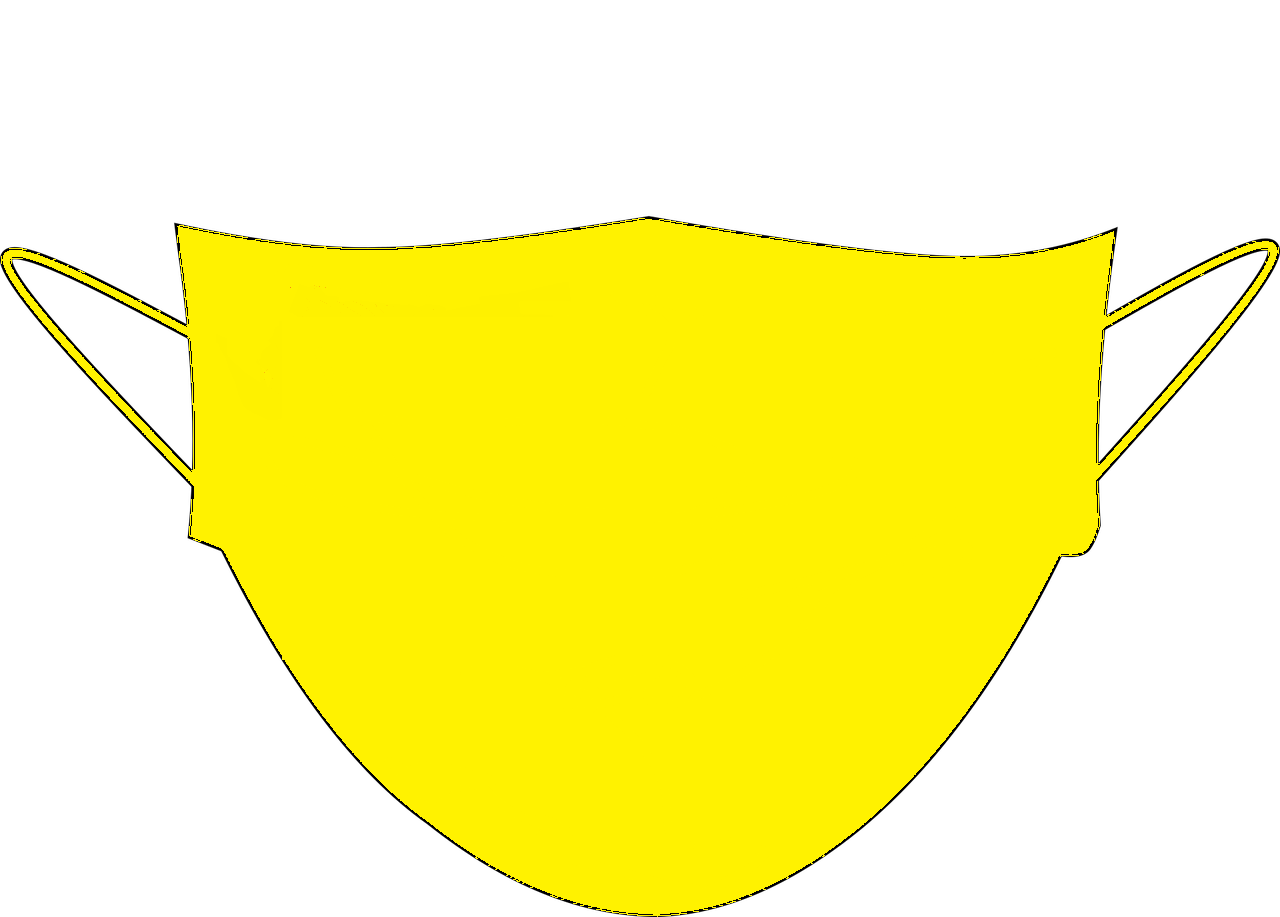
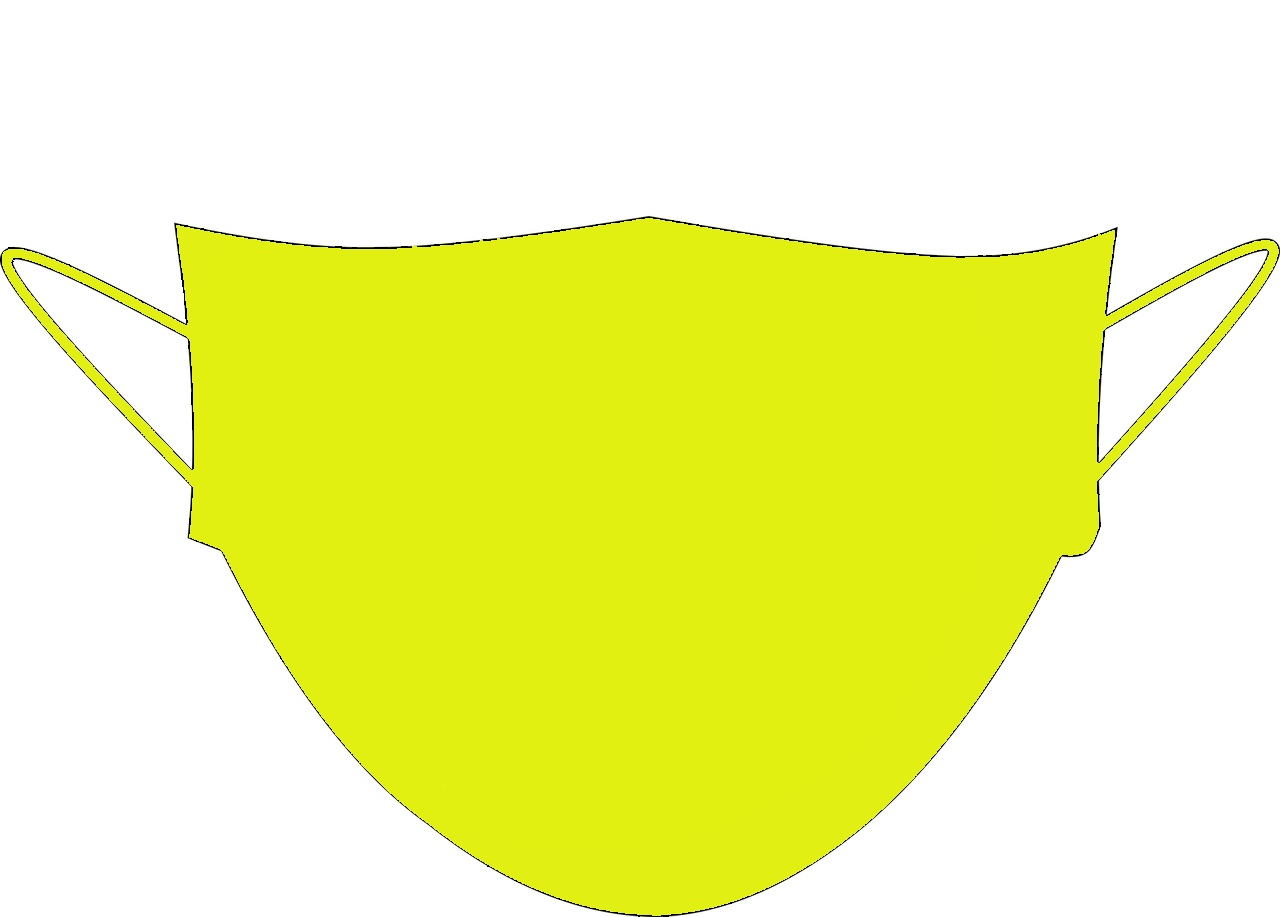
couleurs masques

diff --git a/front/src/screens/ScreenMask.js b/front/src/screens/ScreenMask.js
@@ -218,9 +218,19 @@ function ScreenMasks(props) {
                             <Row>
                                 <Col span={8}>
                                     <Checkbox
-                                        value="Bleu"
+                                        value="Blanc"
                                         style={{
                                          lineHeight: '32px',
+                                        }}
+                                    >
+                                        Blanc
+                                    </Checkbox>
+                                </Col>
+                                <Col span={8}>
+                                    <Checkbox
+                                        value="Bleu"
+                                        style={{
+                                            lineHeight: '32px',
                                         }}
                                     >
                                         Bleu
@@ -228,32 +238,32 @@ function ScreenMasks(props) {
                                 </Col>
                                 <Col span={8}>
                                     <Checkbox
-                                        value="Noir"
+                                        value="Bleu-Ciel"
                                         style={{
                                             lineHeight: '32px',
                                         }}
                                     >
-                                        Noir
+                                        Bleu Ciel
                                     </Checkbox>
                                 </Col>
                                 <Col span={8}>
                                     <Checkbox
-                                        value="Rouge"
+                                        value="Gris"
                                         style={{
                                             lineHeight: '32px',
                                         }}
                                     >
-                                        Rouge
+                                        Gris
                                     </Checkbox>
                                 </Col>
                                 <Col span={8}>
                                     <Checkbox
-                                        value="Vert"
+                                        value="Gris-Fonce"
                                         style={{
                                             lineHeight: '32px',
                                         }}
                                     >
-                                        Vert
+                                        Gris Foncé
                                     </Checkbox>
                                 </Col>
                                 <Col span={8}>
@@ -268,22 +278,22 @@ function ScreenMasks(props) {
                                 </Col>
                                 <Col span={8}>
                                     <Checkbox
-                                        value="Blanc"
+                                        value="Jaune-Clair"
                                         style={{
                                             lineHeight: '32px',
                                         }}
                                     >
-                                        Blanc
+                                        Jaune Clair
                                     </Checkbox>
                                 </Col>
                                 <Col span={8}>
                                     <Checkbox
-                                        value="Gris"
+                                        value="Noir"
                                         style={{
                                             lineHeight: '32px',
                                         }}
                                     >
-                                        Gris
+                                        Noir
                                     </Checkbox>
                                 </Col>
                                 <Col span={8}>
@@ -308,12 +318,72 @@ function ScreenMasks(props) {
                                 </Col>
                                 <Col span={8}>
                                     <Checkbox
+                                        value="Rose-Clair"
+                                        style={{
+                                            lineHeight: '32px',
+                                        }}
+                                    >
+                                        Rose Clair
+                                    </Checkbox>
+                                </Col>
+                                <Col span={8}>
+                                    <Checkbox
+                                        value="Rouge"
+                                        style={{
+                                            lineHeight: '32px',
+                                        }}
+                                    >
+                                        Rouge
+                                    </Checkbox>
+                                </Col>
+                                <Col span={8}>
+                                    <Checkbox
+                                        value="Rouge-Fonce"
+                                        style={{
+                                            lineHeight: '32px',
+                                        }}
+                                    >
+                                        Rouge Foncé
+                                    </Checkbox>
+                                </Col>
+                                <Col span={8}>
+                                    <Checkbox
+                                        value="Saumon"
+                                        style={{
+                                            lineHeight: '32px',
+                                        }}
+                                    >
+                                       Saumon
+                                    </Checkbox>
+                                </Col>
+                                <Col span={8}>
+                                    <Checkbox
+                                        value="Vert"
+                                        style={{
+                                            lineHeight: '32px',
+                                        }}
+                                    >
+                                       Vert
+                                    </Checkbox>
+                                </Col>
+                                <Col span={8}>
+                                    <Checkbox
+                                        value="Vert-Fonce"
+                                        style={{
+                                            lineHeight: '32px',
+                                        }}
+                                    >
+                                       Vert Foncé
+                                    </Checkbox>
+                                </Col>
+                                <Col span={8}>
+                                    <Checkbox
                                         value="Violet"
                                         style={{
                                             lineHeight: '32px',
                                         }}
                                     >
-                                        Violet
+                                       Violet
                                     </Checkbox>
                                 </Col>
                             </Row>

diff --git a/front/src/screens/ScreenQuiSommeNous.js b/front/src/screens/ScreenQuiSommeNous.js
@@ -30,13 +30,13 @@ function ScreenAPropos() {
                 <img style={{width: '80%', height: 'auto'}} src='../assets/images/nous1.jpg' alt='eco-responsable'/>
             </Col>
             <Col md={{span: 12}} sm={{span: 24}}>
-                <p style={{marginLeft: 20}}>En ce début 2020, l'histoire de Masques.org est directement liée au contexte de crise sanitaire et économique que traverse le monde. C'est pourquoi nous avons mis en place une plateforme liant Achat Responsable et Fabrication en privilégiant le 'local et les circuits courts.' </p>
+                <p style={{marginLeft: 20}}>En ce début 2020, l'histoire de Masques.org est directement liée au contexte de crise sanitaire et économique que traverse le monde. C'est pourquoi nous avons mis en place une plateforme liant Achat Responsable et Fabrication en privilégiant le 'local' et les circuits courts. </p>
             </Col>
         </Row>
 
         <Row style={{marginTop: 50}} align='middle'>
             <Col md={{span: 12}} sm={{span: 24}}>
-                <p style={{marginLeft: 20}}>Vos achats sont solidaires. En effet, pour toute commande, nous faisons produire des masques, et les offrons aux personnes en situation de précarité. Nos partenaires ONG comme la Croix-Rouge, les dristribuerontauprès des publics concernés. </p>
+                <p style={{marginLeft: 20}}>Vos achats sont solidaires. En effet, pour toute commande, nous faisons produire des masques, et les offrons aux personnes en situation de précarité. Nos partenaires ONG comme la Croix-Rouge, les dristribueront auprès des publics concernés. </p>
             </Col>
             <Col md={{span: 12}} sm={{span: 24}}>
                 <img style={{width: '60%', height: 'auto'}} src='../assets/images/nous2.jpg' alt='solidaire'/>
